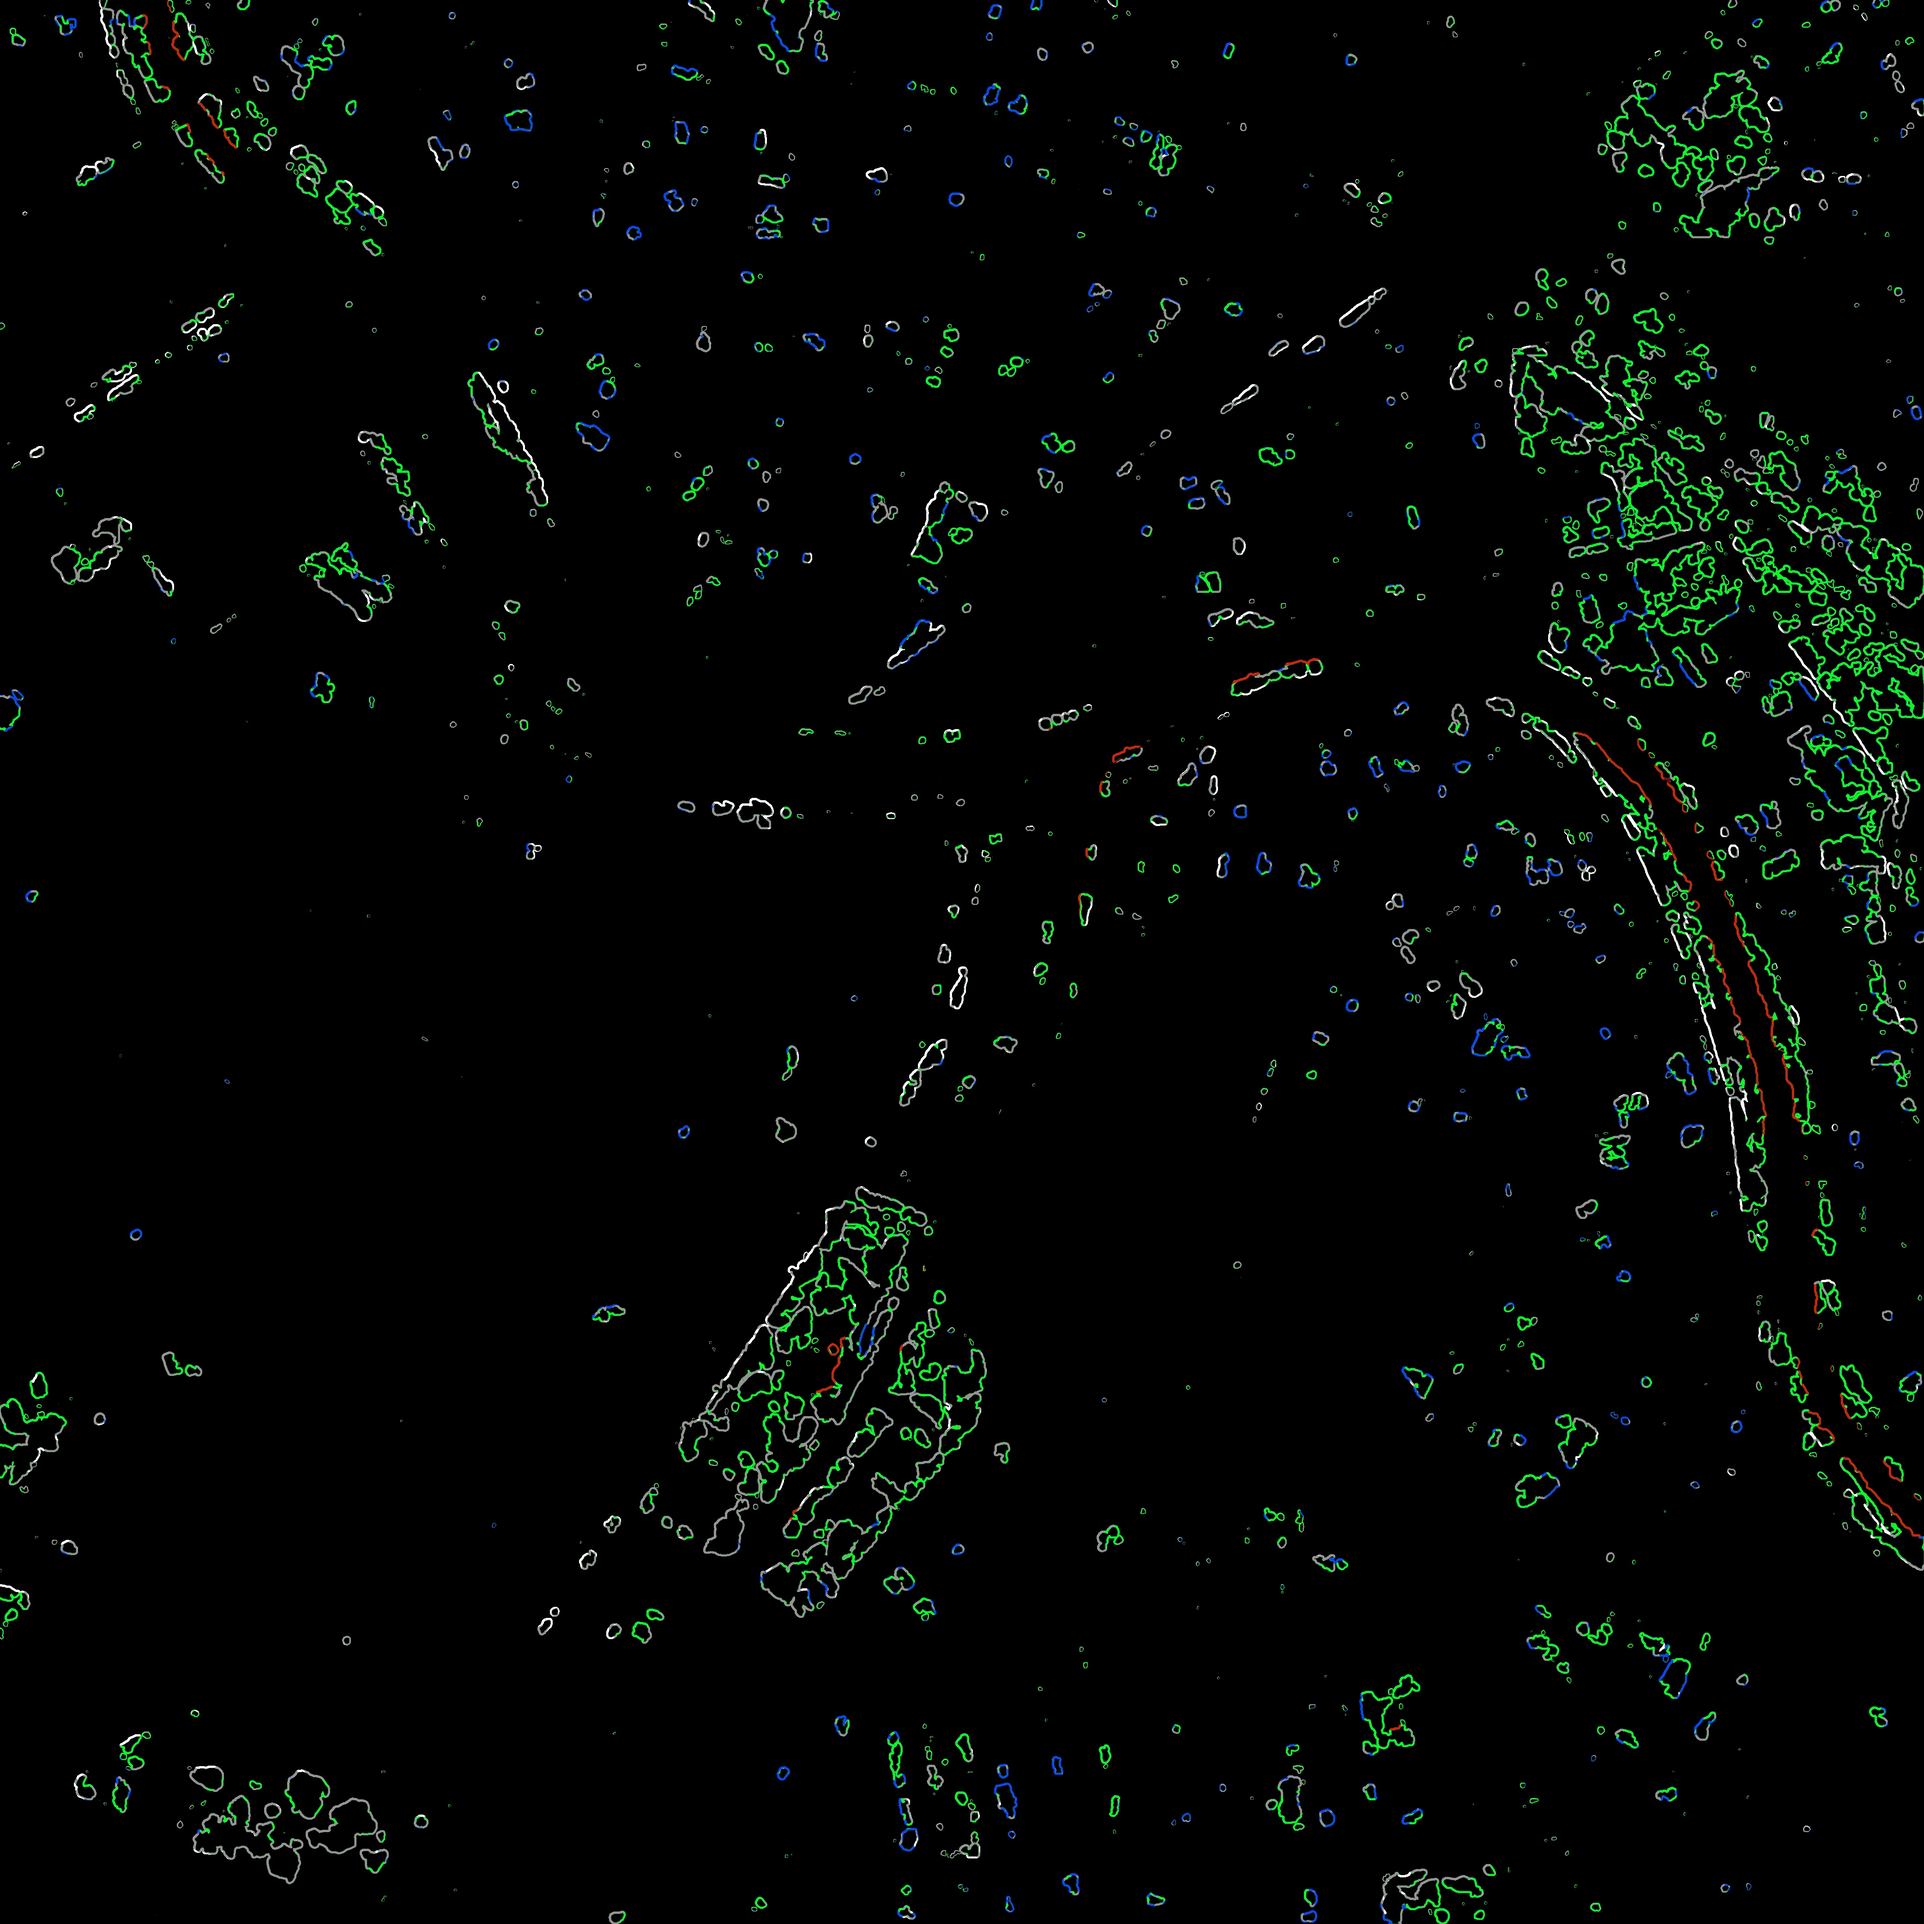
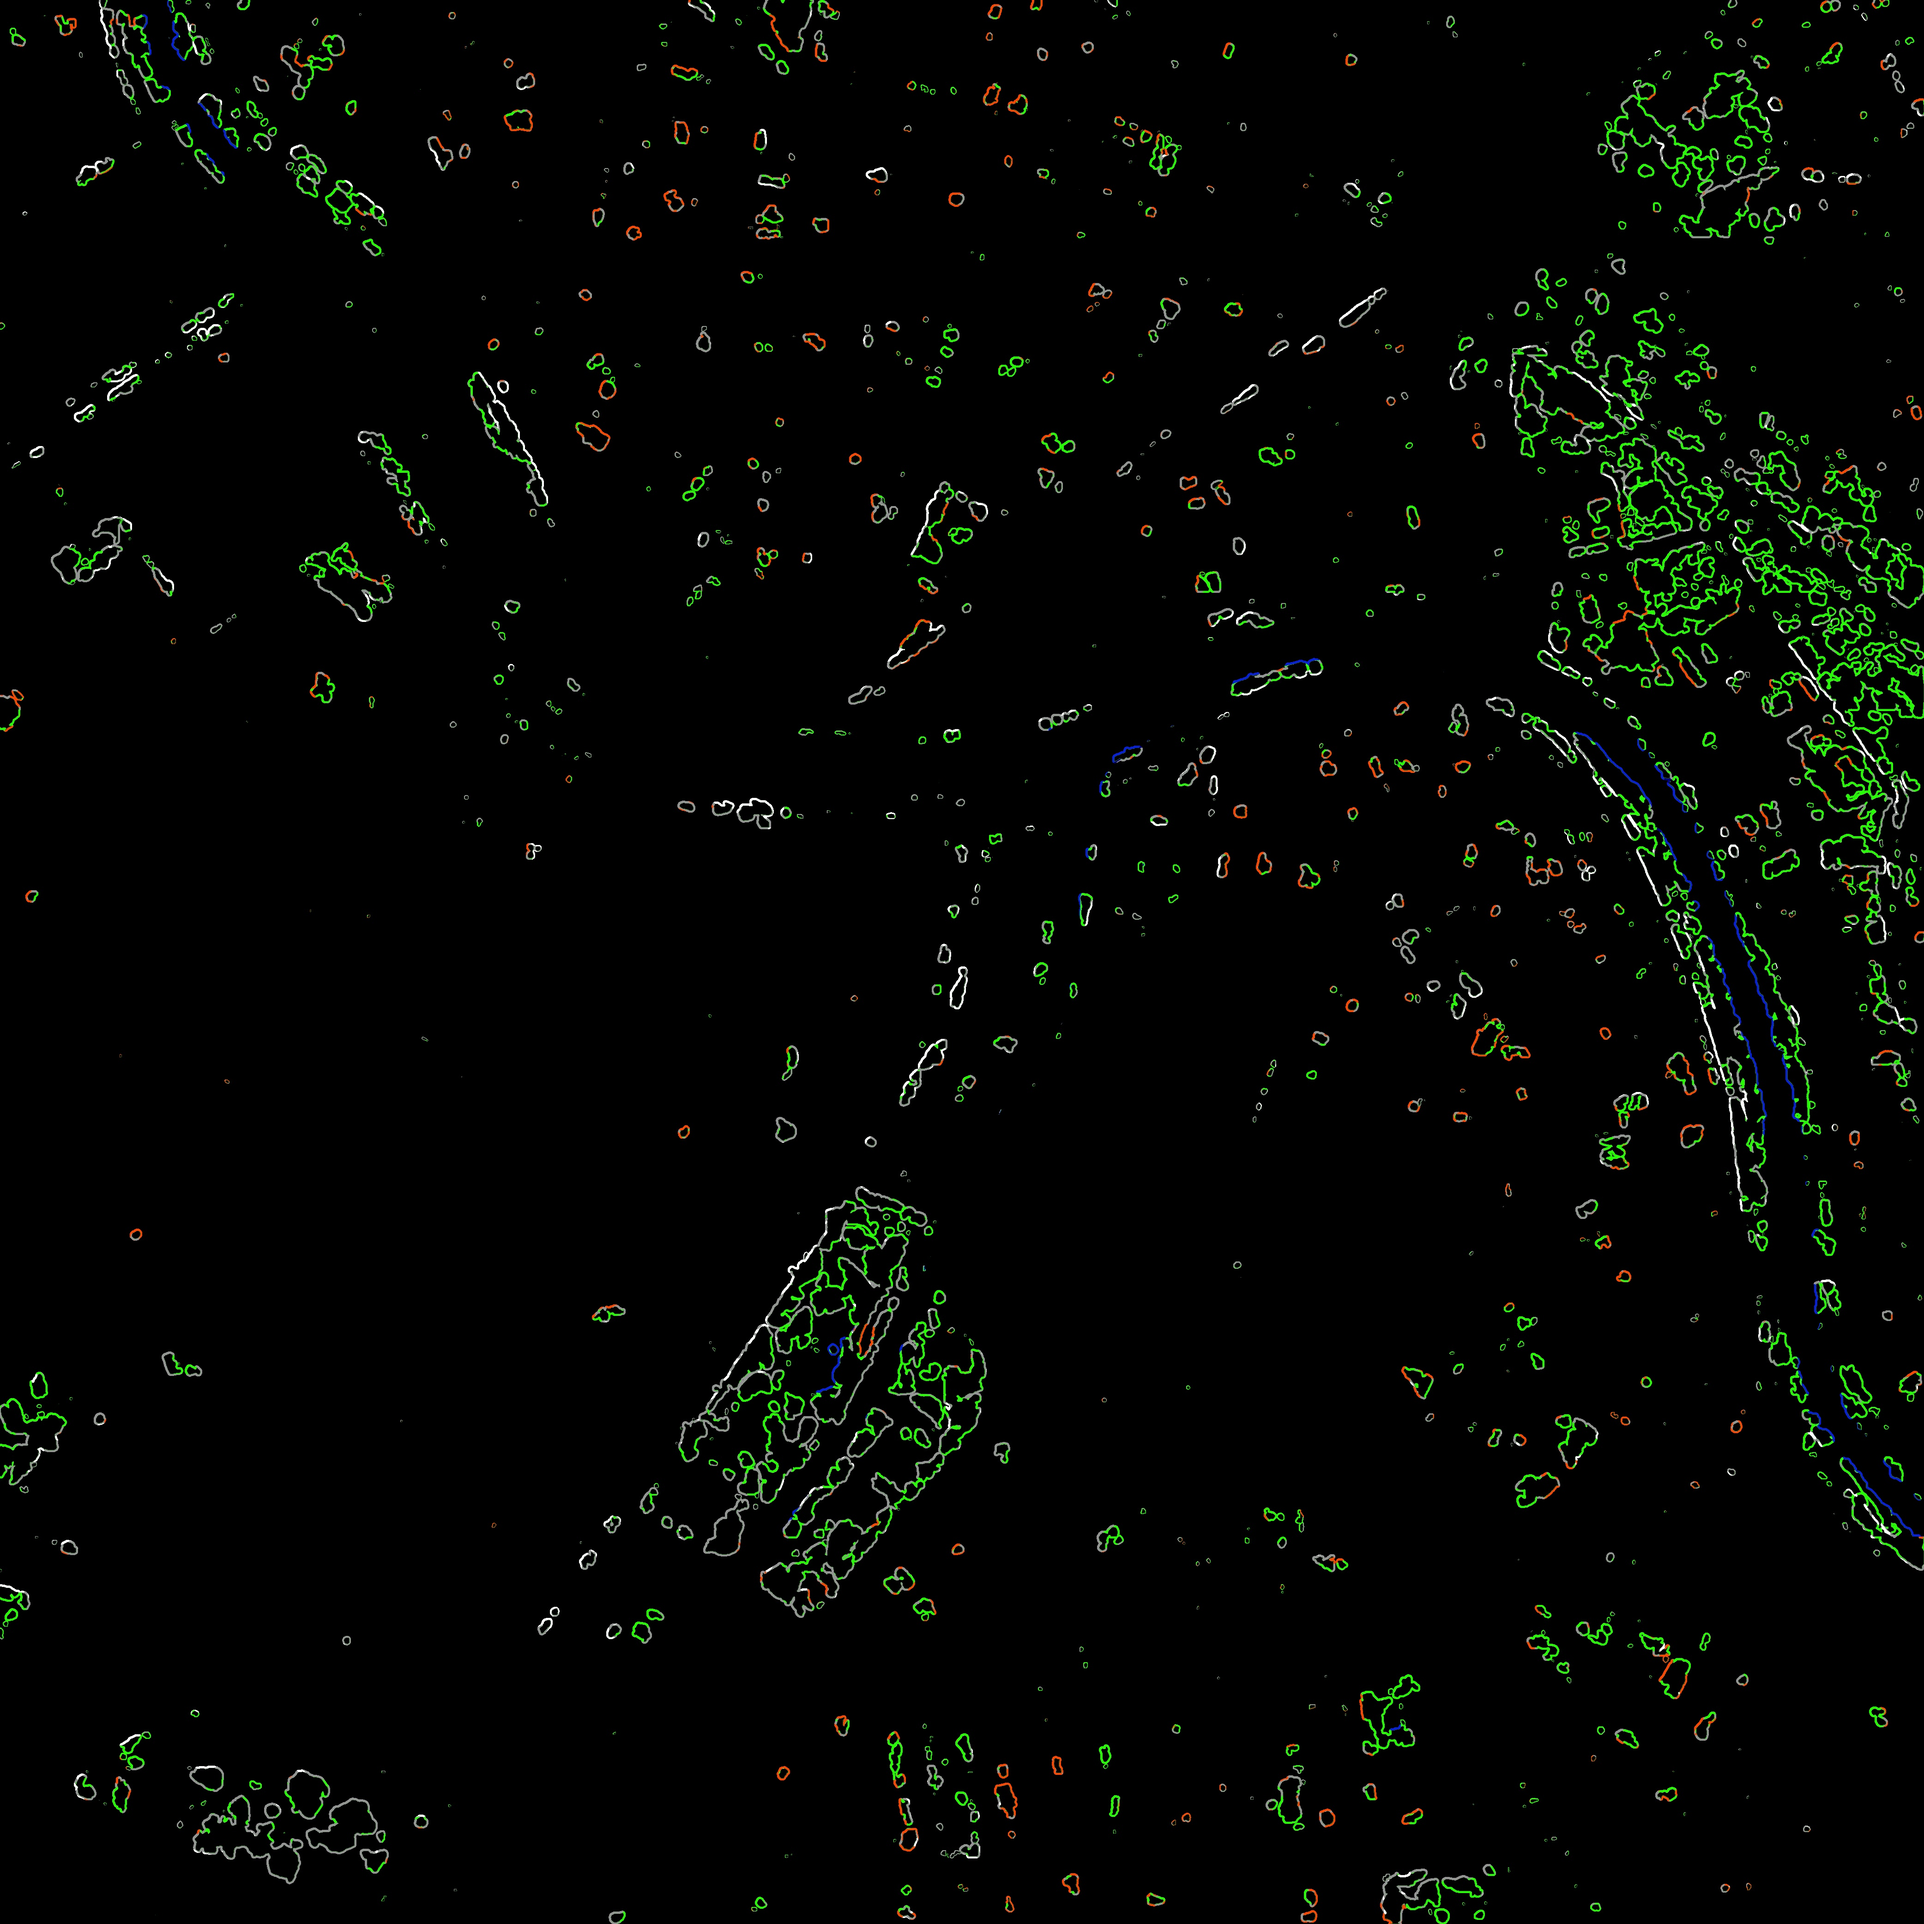
add lower and upper bounds to impervious surfaces calc

diff --git a/imperviousness_calculation.py b/imperviousness_calculation.py
@@ -46,7 +46,7 @@ def main():
 
 
 def calculate_mean_width_sampling(polygon, num_directions=100):
-    centroid = polygon.centroid  # Get the polygon's centroid
+    centroid = polygon.centroid
     bounds = polygon.bounds
     max_radius = max(bounds[2] - bounds[0], bounds[3] - bounds[1]) / 2
 
@@ -54,37 +54,30 @@ def calculate_mean_width_sampling(polygon, num_directions=100):
     widths = []
 
     for angle in directions:
-        # Create a line extending outward from the centroid
         dx = np.cos(angle) * max_radius
         dy = np.sin(angle) * max_radius
         line = LineString(
             [(centroid.x, centroid.y), (centroid.x + dx, centroid.y + dy)]
         )
 
-        # Intersect the line with the polygon
         intersection = polygon.intersection(line)
 
         if intersection.is_empty:
             continue
 
-        # Calculate the distance (width) for this direction
         if intersection.geom_type == "MultiLineString":
-            # Sum lengths if multiple intersections
             width = sum(part.length for part in intersection.geoms)
         else:
             width = intersection.length
 
         widths.append(width)
 
-    # Calculate the mean width
     mean_width = np.mean(widths) if widths else 0
     return mean_width
 
 
-# Function to calculate buffer distance for a given ratio
 def calculate_buffer_distance(geometry, ratio, max_width):
     original_width = calculate_mean_width_sampling(geometry)
-    # 3rd quadrant width of tree crowns
     if original_width > max_width:
         original_width = max_width
 
@@ -93,78 +86,81 @@ def calculate_buffer_distance(geometry, ratio, max_width):
 
 
 def create_geometries(image_path, max_width):
-    image = cv2.imread(image_path)
-    image = cv2.cvtColor(image, cv2.COLOR_BGR2RGB)
-    image_array = np.array(image)
+    with rasterio.open(image_path) as src:
+        # Read bands in BGR order (bands 3, 2, 1 for RGB images)
+        bgr_image = np.dstack([src.read(3), src.read(2), src.read(1)])
 
-    # Step 2: Define the target BGR color (from the hex value #226126)
-    lower_dark_green = np.array([0, 50, 0])
-    upper_dark_green = np.array([100, 150, 100])
+    lower_dark_green = np.array([0, 50, 0])  # BGR lower bound for dark green
+    upper_dark_green = np.array([100, 150, 100])  # BGR upper bound
 
-    # Step 3: Create a binary mask for the target color
-    binary_mask = cv2.inRange(image_array, lower_dark_green, upper_dark_green)
+    binary_mask = cv2.inRange(bgr_image, lower_dark_green, upper_dark_green)
 
-    # Step 4: Extract contours
     contours, _ = cv2.findContours(
         binary_mask, cv2.RETR_EXTERNAL, cv2.CHAIN_APPROX_SIMPLE
     )
 
-    # Step 5: Convert contours to Shapely geometries
     differences = []
-
     ratio = 2.24
 
     for contour in contours:
-        # Approximate contour as a polygon
-        coords = contour.squeeze().tolist()  # Extract x, y coordinates
-        if len(coords) >= 3:  # Only consider valid polygons
+        coords = contour.squeeze().tolist()
+        if len(coords) >= 3:
             geom = Polygon(coords)
-
             distance = calculate_buffer_distance(geom, ratio, max_width)
             buffered_geom = geom.buffer(distance)
-            difference = buffered_geom.difference(geom)
-
-            differences.append(difference)
+            differences.append(buffered_geom.difference(geom))
 
     return differences
 
 
 def calculate_imperviousness(image_path, differences):
     with rasterio.open(image_path) as src:
-        raster_data = src.read((1, 2, 3))
+        # Read bands in BGR order (3, 2, 1)
+        raster_data = np.stack([src.read(3), src.read(2), src.read(1)], axis=0)
         transform = src.transform
 
-        # Create a mask for the difference geometries
         mask = geometry_mask(
-            [geom.__geo_interface__ for geom in differences],
+            differences,
             transform=transform,
             invert=True,
             out_shape=(src.height, src.width),
         )
 
-        # Apply the mask to the raster data
         masked_data = raster_data[:, mask]
 
-    # Define the color codes of interest in their corresponding raster values (BGR)
-    color_mapping = {
-        "#FFFFFF": (255, 255, 255),  # mapping for white
-        "#DE1F07": (222, 31, 7),  # mapping for red
-        "#949494": (148, 148, 148),  # mapping for gray
+    # Define color ranges instead of exact matches
+    color_ranges = {
+        "#FFFFFF": (  # White
+            np.array([210, 210, 210], dtype=np.uint8),  # Lower bound (B, G, R)
+            np.array([255, 255, 255], dtype=np.uint8),  # Upper bound (B, G, R)
+        ),
+        "#DE1F07": (  # Red
+            np.array([0, 60, 200], dtype=np.uint8),  # Lower bound (B, G, R)
+            np.array([50, 100, 255], dtype=np.uint8),  # Upper bound (B, G, R)
+        ),
+        "#949494": (  # Gray
+            np.array([130, 130, 130], dtype=np.uint8),  # Lower bound (B, G, R)
+            np.array([160, 160, 160], dtype=np.uint8),  # Upper bound (B, G, R)
+        ),
     }
 
-    # Count pixels for each color
-    total_pixels = masked_data.shape[1]
-    color_counts = {}
+    color_counts = {color: 0 for color in color_ranges}
 
-    for color, bgr in color_mapping.items():
-        # Count pixels where all bands match the target BGR
-        color_counts[color] = np.sum(
-            (masked_data[0] == bgr[0])
-            & (masked_data[1] == bgr[1])
-            & (masked_data[2] == bgr[2])
+    for color, (lower, upper) in color_ranges.items():
+        # Count pixels within the specified range
+        in_range = np.logical_and.reduce(
+            [
+                masked_data[0] >= lower[0],
+                masked_data[0] <= upper[0],
+                masked_data[1] >= lower[1],
+                masked_data[1] <= upper[1],
+                masked_data[2] >= lower[2],
+                masked_data[2] <= upper[2],
+            ]
         )
+        color_counts[color] = np.sum(in_range)
 
-    # Calculate percentages
+    total_pixels = masked_data.shape[1]
     percentages = {
         color: (count / total_pixels) * 100 for color, count in color_counts.items()
     }
@@ -174,35 +170,13 @@ def calculate_imperviousness(image_path, differences):
     for color, percentage in percentages.items():
         logger.info(f"{color}: {percentage:.2f} percent")
 
-    image_pixels = src.height * src.width
-
-    difference_other_pixels = total_pixels - sum(color_counts.values())
-
-    contribution_percentages = {
-        color: (count / image_pixels) * 100 for color, count in color_counts.items()
-    }
-    contribution_percentages["other"] = (difference_other_pixels / image_pixels) * 100
-
-    logger.info("Color contribution for total area")
-    for color, percentage in contribution_percentages.items():
-        logger.info(f"{color}: {percentage:.2f}% of the total image area")
-
-    total_imp = (
-        sum(contribution_percentages.values()) - contribution_percentages["other"]
-    )
-    logger.info(f"Total imperviousness: {total_imp}")
-
     return mask, raster_data
 
 
 def create_figure(mask, raster_data):
     bgr_masked = np.zeros_like(raster_data)
-
-    for i in range(3):  # Loop through B, G, R bands
-        band = raster_data[i]  # Extract each band
-        bgr_masked[i][mask] = band[mask]  # Apply the mask
-
-    # Transpose to (height, width, 3) for visualization
+    for i in range(3):
+        bgr_masked[i][mask] = raster_data[i][mask]
     return np.transpose(bgr_masked, (1, 2, 0))
 
 
